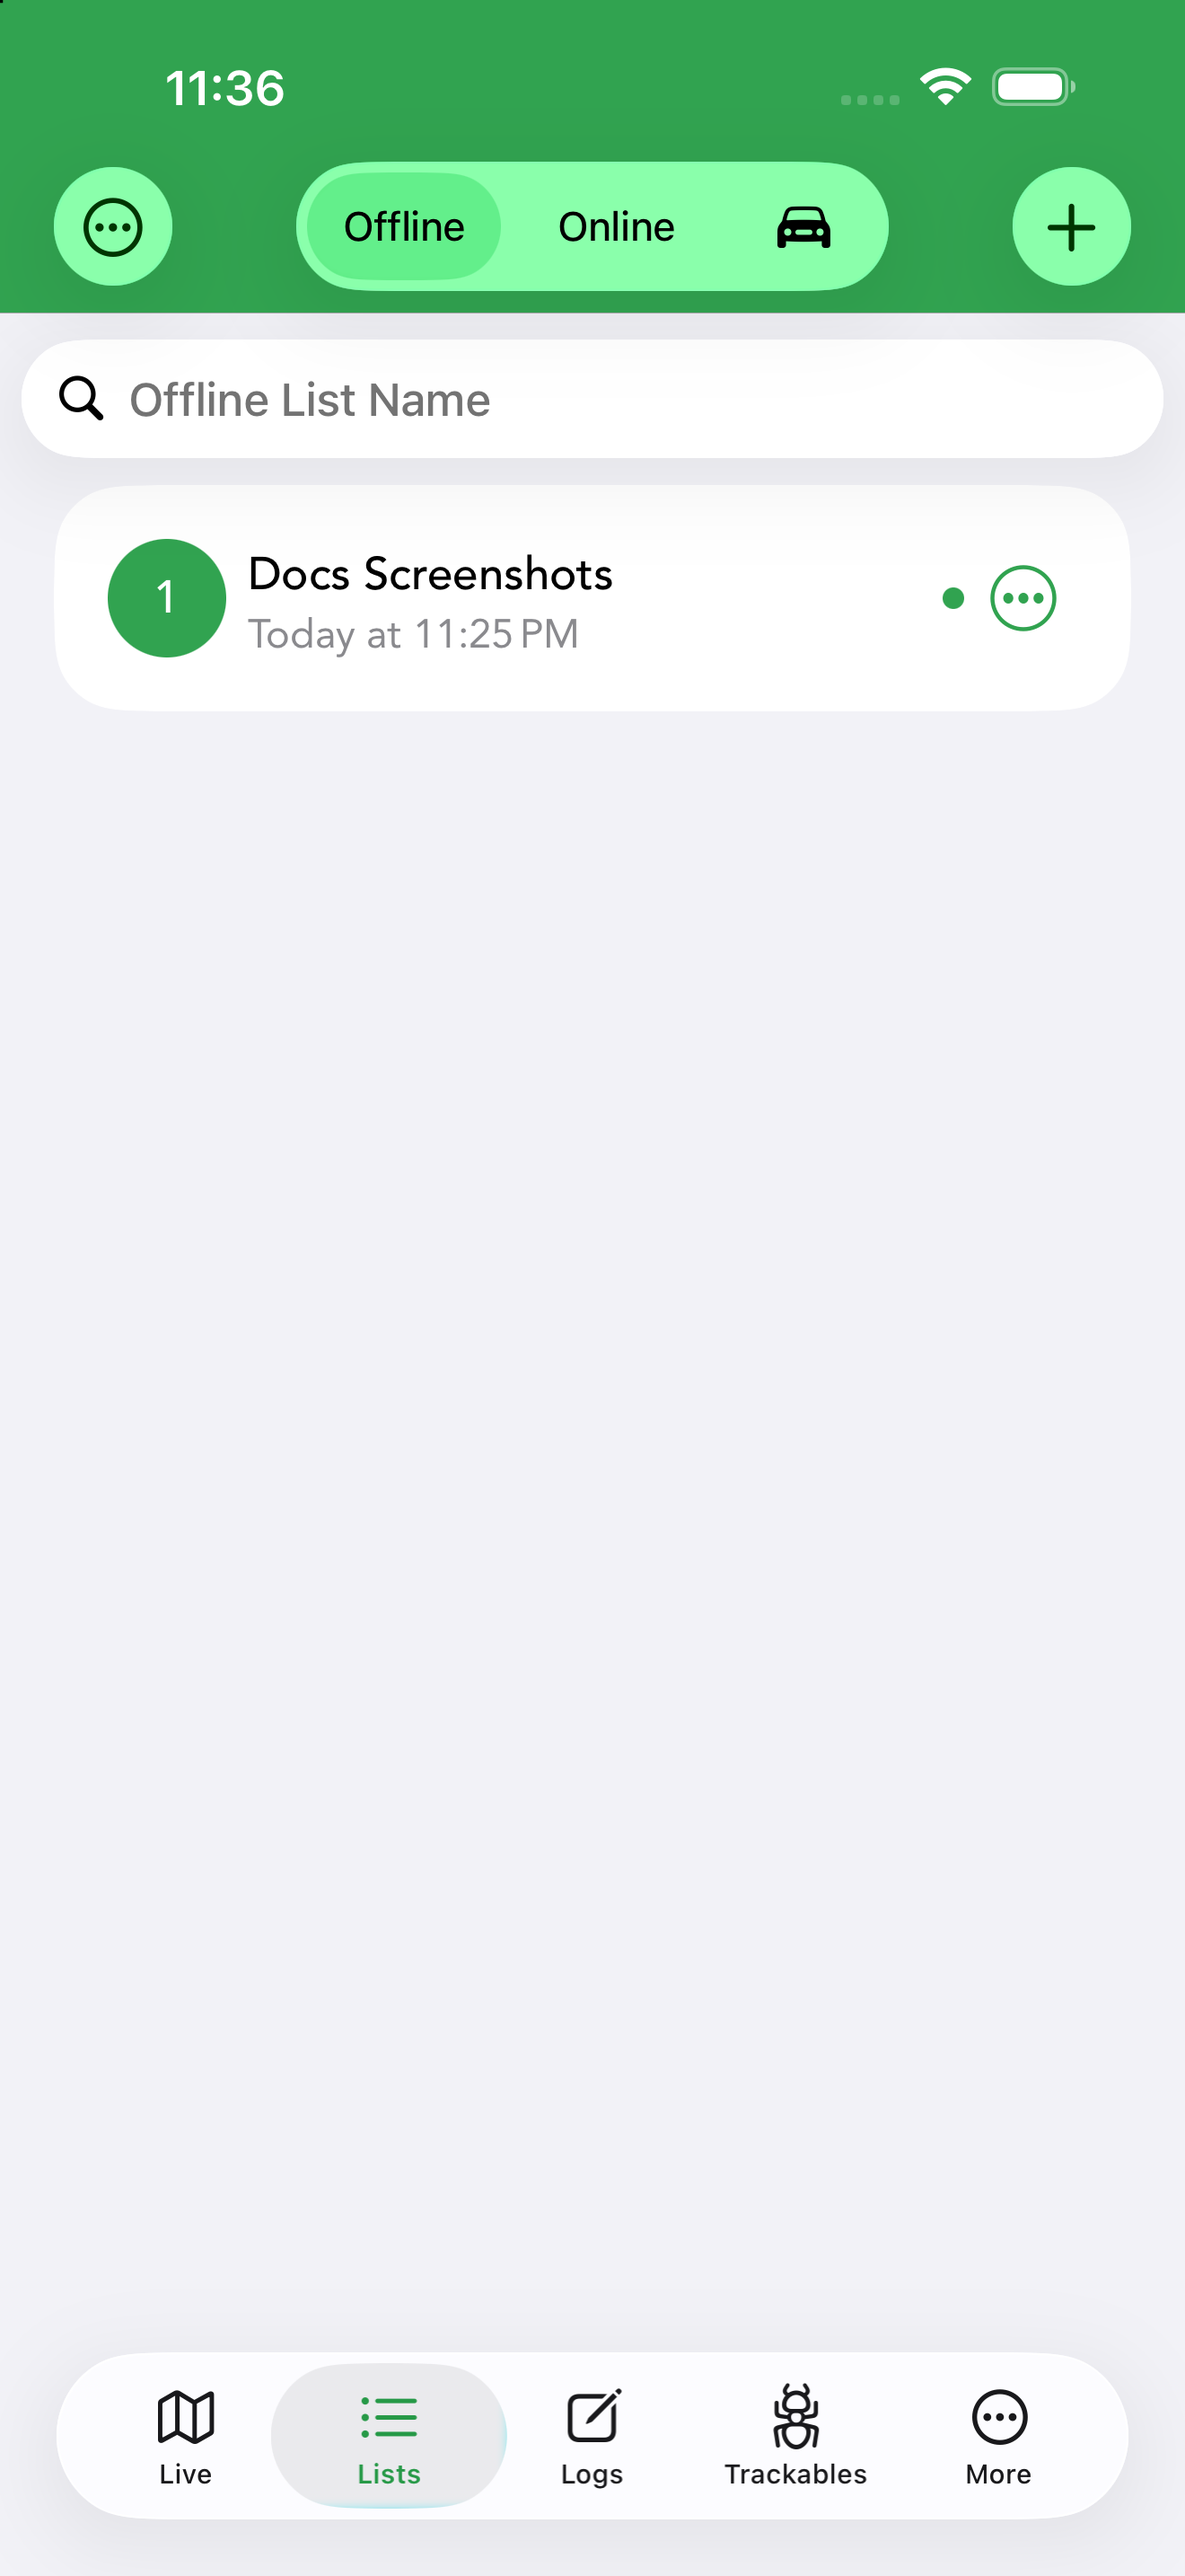
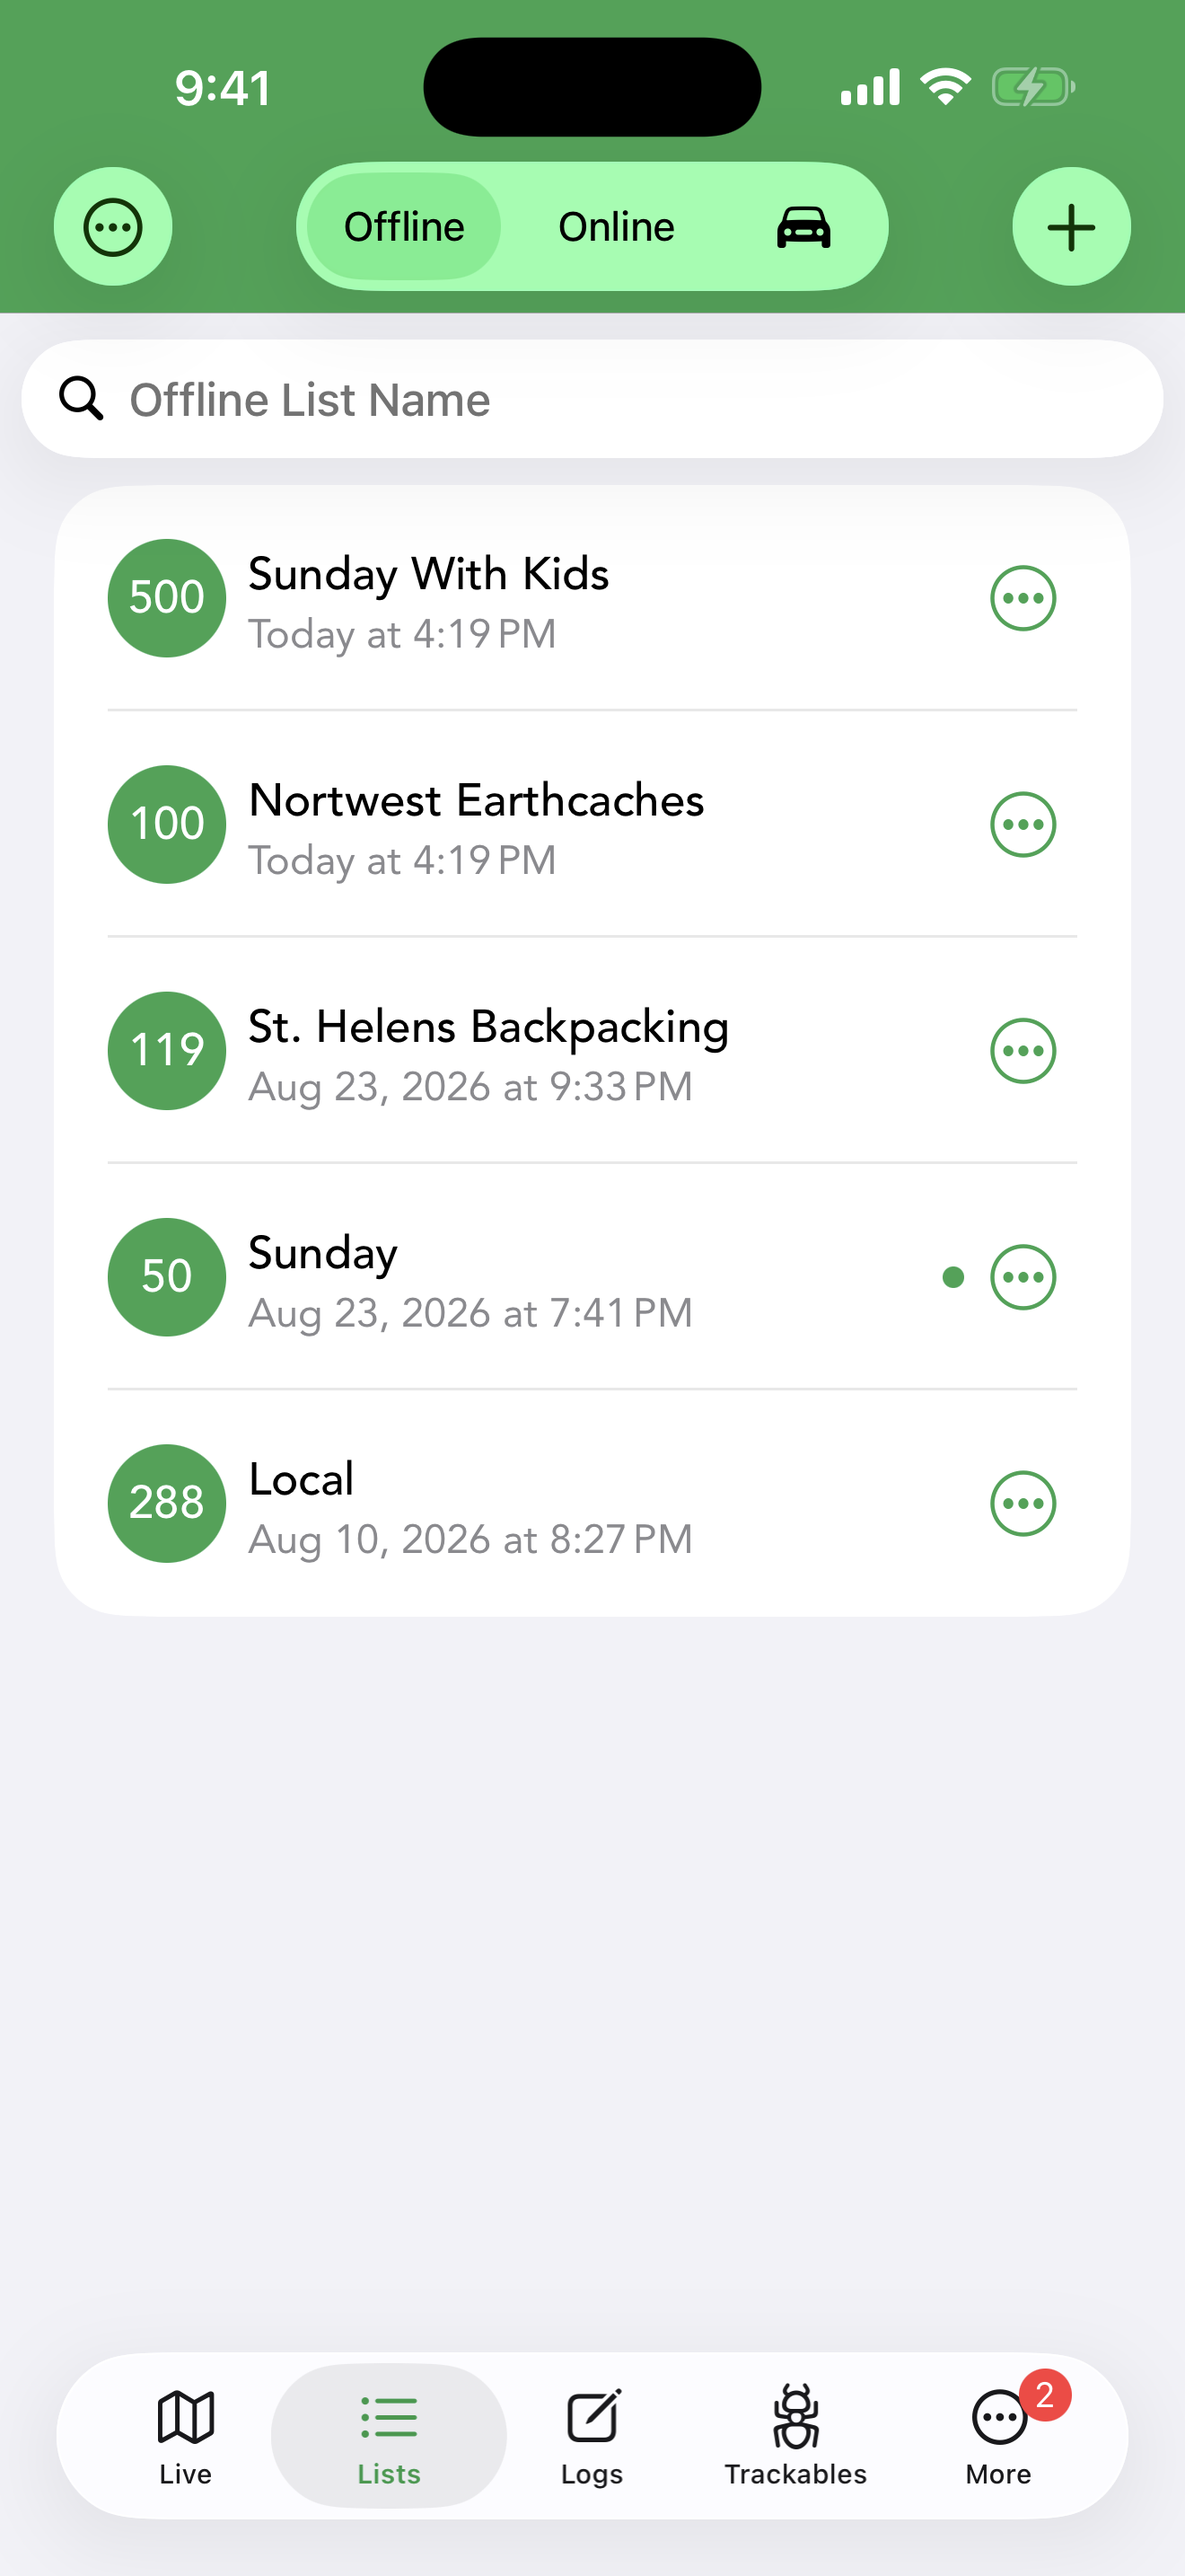
Docs: refresh Lists tab Offline/Online screenshots (iOS 26 segmented control, per-row menus)

diff --git a/docs/lists.html b/docs/lists.html
@@ -83,8 +83,8 @@
         <p class="doc-lead">Lists keep caches organized; offline sets take it further by downloading caches (and their photos) to your device so you can cache with no signal.</p>
         <h2 id="kinds-of-lists">Kinds of Lists</h2>
 <div class="shots">
-<figure class="shot"><img loading="lazy" src="assets/screenshots/lists-main.png" alt="The Lists tab on its Offline segment, with the Offline/Online/Trips control and your offline lists." width="248"><figcaption>The Lists tab on its Offline segment, with the Offline/Online/Trips control and your offline lists.</figcaption></figure>
-<figure class="shot"><img loading="lazy" src="assets/screenshots/lists-online.png" alt="The Online segment &amp;mdash; your geocaching.com bookmark lists, including the Ignore List, with cache counts." width="248"><figcaption>The Online segment &mdash; your geocaching.com bookmark lists, including the Ignore List, with cache counts.</figcaption></figure>
+<figure class="shot"><img loading="lazy" src="assets/screenshots/lists-main.png" alt="The Lists tab on its Offline segment &amp;mdash; the Offline / Online / Trips (car icon) control, a name search, and your offline lists with cache counts and last-updated times." width="248"><figcaption>The Lists tab on its Offline segment &mdash; the Offline / Online / Trips (car icon) control, a name search, and your offline lists with cache counts and last-updated times.</figcaption></figure>
+<figure class="shot"><img loading="lazy" src="assets/screenshots/lists-online.png" alt="The Online segment &amp;mdash; your geocaching.com bookmark lists, including the Ignore List, each marked Private, Public or Shared." width="248"><figcaption>The Online segment &mdash; your geocaching.com bookmark lists, including the Ignore List, each marked Private, Public or Shared.</figcaption></figure>
 <figure class="shot" style="width:360px"><img loading="lazy" src="assets/screenshots/lists-trips-crop.png" alt="The Trips segment holds trip lists for planning a route of caches." width="360"><figcaption>The Trips segment holds trip lists for planning a route of caches.</figcaption></figure>
 </div>
         <p>The Lists tab is split into three segments across the top:</p>
